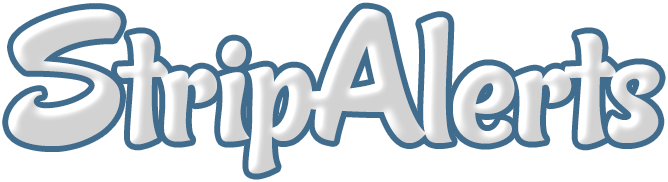
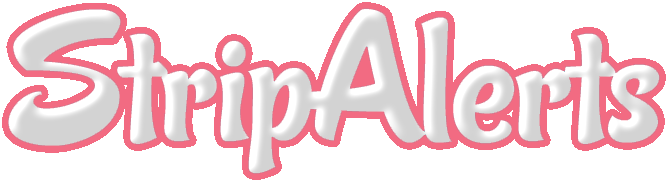
Update styling

Changed region(s): [[0.0, 0.0, 1.0, 0.989]]

diff --git a/src/web_ui.py b/src/web_ui.py
@@ -1,3 +1,4 @@
+import logging
 import os
 import asyncio
 from dotenv import dotenv_values, load_dotenv
@@ -7,12 +8,79 @@ from main import StripAlertsApp
 # Load environment variables from .env file
 load_dotenv()
 
+# Define the light and dark mode styles
+LIGHT_MODE = {
+    "background-color": "#f5f5f5",
+    "color": "#333333",
+    "button-background": "#ff6b81",
+    "button-color": "#ffffff",
+    "card-background": "#ffffff",
+    "card-color": "#333333",
+    "box-shadow": "0px 4px 8px rgba(0, 0, 0, 0.2)",
+}
+
+DARK_MODE = {
+    "background-color": "#333333",
+    "color": "#ffffff",
+    "button-background": "#ff6b81",
+    "button-color": "#ffffff",
+    "card-background": "#444444",
+    "card-color": "#ffffff",
+    "box-shadow": "0px 4px 8px rgba(255, 255, 255, 0.2)",
+}
+
+# Define a variable to track the current mode
+current_mode = LIGHT_MODE
+
 # Common styling constants
-CARD_STYLE = "max-width: 350px; margin: 0 auto; background-color: #202c39; color: white;"
-BODY_STYLE = "background-color: #121212; color: #FFFFFF;"
-BUTTON_STYLE = "margin: 0 auto;"
-LABEL_STYLE = "margin: 0 auto; text-align: center;"
+COMMON_STYLE = """
+    font-family: 'Arial', sans-serif;
+    max-width: 350px;
+    margin: 0 auto;
+    border-radius: 8px;
+    transition: background-color 0.3s ease, transform 0.2s ease;
+"""
+
+# Styles for elements
+BODY_STYLE = f"""
+    {COMMON_STYLE}
+    background-color: {current_mode['background-color']};
+    color: {current_mode['color']};
+"""
+
+CARD_STYLE = f"""
+    {COMMON_STYLE}
+    background-color: {current_mode['card-background']};
+    color: {current_mode['card-color']};
+    box-shadow: {current_mode['box-shadow']};
+"""
+
+BUTTON_STYLE = f"""
+    background-color: {current_mode['button-background']};
+    color: {current_mode['button-color']};
+    border: none;
+    padding: 10px 20px;
+    border-radius: 25px;
+    transition: background-color 0.3s ease, transform 0.2s ease;
+"""
+
+CENTER_STYLE = "display: flex; justify-content: center; align-items: center;"
+LABEL_STYLE = (
+    "margin: 0 auto; text-align: center; margin-top: 20px; font-size: 24px; color: #ff6b81;"
+)
 HEADER_IMAGE_STYLE = "width: 200px; height: auto; margin: 0 auto;"
+HEADER_IMAGE_PATH = "./static/header.png"  # Update with your header image path
+
+
+def show_notification(message, type="info"):
+    """
+    Show a notification to the user.
+
+    Args:
+        message (str): The message to display in the notification.
+        type (str): The type of notification ('info', 'success', 'warning', 'error').
+    """
+    ui.notify(message, type=type)
 
 
 def get_env_var(var_name, default=""):
@@ -43,7 +111,7 @@ def set_env_var(var_name, value):
         for key, val in env_vars.items():
             env_file.write(f"{key}={val}\n")
     os.environ[var_name] = value
-    print(f"Set {var_name} to {value}")
+    # print(f"Set {var_name} to {value}") # Uncomment for debugging
 
 
 class ControlFunctions:
@@ -66,7 +134,7 @@ class ControlFunctions:
             self.app_instance.start_service_logic(self.app_instance, storage)
             await self.app_instance.shutdown_event.wait()
         else:
-            print("App already running.")
+            logging.info("App is already running.")
 
     def stop_service_logic(self, storage):
         """
@@ -77,7 +145,6 @@ class ControlFunctions:
         """
         if self.app_instance:
             asyncio.create_task(self.app_instance.stop_service())
-        storage.update(app_running=False)
 
 
 def create_input(label, var_name, default=""):
@@ -151,8 +218,7 @@ def setup_configuration_stepper(storage):
     with ui.stepper().props("vertical").classes("w-full q-pa-md").style(CARD_STYLE) as stepper:
         storage.update(setup_complete=False)
         storage.update(app_running=False)
-        storage.update(show_stepper=True)
-        stepper.bind_visibility_from(storage, "show_stepper")
+        stepper.bind_visibility_from(storage, "setup_complete", value=False)
 
         with ui.step("API Configuration"):
             create_input("API Username", "USERNAME")
@@ -177,19 +243,14 @@ def setup_configuration_stepper(storage):
                 ui.button("Next", on_click=stepper.next).props("color=primary")
 
         with ui.step("Setup Complete"):
-            username = str(get_env_var("USERNAME"))
-            ui.label().bind_text_from(
-                target_object=username,
-                backward=lambda username: f"Welcome, {username}!",
-            ).style(LABEL_STYLE).classes("font-bold")
-            with ui.stepper_navigation().style(BUTTON_STYLE):
+            with ui.stepper_navigation():
                 ui.button(
                     "Complete Setup",
                     on_click=lambda: [
                         storage.update(setup_complete=True),
-                        storage.update(show_stepper=False),
+                        show_notification("Setup completed successfully!", type="success"),
                     ],
-                ).props("color=primary")
+                ).style(BUTTON_STYLE)
 
 
 def setup_control_card(storage):
@@ -201,14 +262,20 @@ def setup_control_card(storage):
     """
     with ui.card().bind_visibility_from(storage, "setup_complete").classes("w-full q-pa-md").style(
         CARD_STYLE
-    ):
+    ).style(CENTER_STYLE):
         control_functions = ControlFunctions()
+        username = str(get_env_var("USERNAME"))
+        ui.label(f"Welcome, {username}!").style(LABEL_STYLE)
+
+        # Stack the buttons vertically
         ui.button(
-            "Start StripAlerts", on_click=lambda: control_functions.start_service_logic(storage)
-        ).style(BUTTON_STYLE).props("color=primary")
+            "Start StripAlerts",
+            on_click=lambda: control_functions.start_service_logic(storage),
+        ).style(f"{BUTTON_STYLE} margin-bottom: 10px;")  # Added margin-bottom
         ui.button(
-            "Stop StripAlerts", on_click=lambda: control_functions.stop_service_logic(storage)
-        ).style(BUTTON_STYLE).bind_visibility_from(storage, "app_running").props("flat")
+            "Stop StripAlerts",
+            on_click=lambda: control_functions.stop_service_logic(storage),
+        ).style(f"{BUTTON_STYLE} margin-bottom: 10px;").bind_visibility_from(storage, "app_running")
 
 
 def setup_log_display(storage):
@@ -221,7 +288,7 @@ def setup_log_display(storage):
     with ui.card().bind_visibility_from(storage, "setup_complete").classes("w-full q-pa-md").style(
         CARD_STYLE
     ):
-        log_content = ui.label("").classes("log-display q-mb-md font-bold")
+        log_content = ui.label("").classes("log-display q-mb-md font-bold margin-top: 40px;")
 
         def update():
             asyncio.create_task(update_log_content(log_content))
@@ -252,23 +319,55 @@ async def update_log_content(log_label):
         log_label.set_text("Log file not found.")
 
 
+def toggle_dark_mode():
+    global current_mode
+
+    if current_mode == LIGHT_MODE:
+        current_mode = DARK_MODE
+    else:
+        current_mode = LIGHT_MODE
+
+    # Apply the new styles to the UI elements
+    ui.query("body").style(
+        f"background-color: {current_mode['background-color']}; color: {current_mode['color']};"
+    )
+    ui.query(".card").style(
+        f"background-color: {current_mode['card-background']}; color: {current_mode['card-color']}; box-shadow: {current_mode['box-shadow']};"
+    )
+    ui.query(".button").style(
+        f"background-color: {current_mode['button-background']}; color: {current_mode['button-color']};"
+    )
+    ui.query(".notification").style(
+        f"background-color: {current_mode['button-background']}; color: {current_mode['button-color']};"
+    )
+
+
 @ui.page("/")
 def index():
     with ui.card().classes("w-full q-pa-md").style(
-        "max-width: 400px; margin: 0 auto; background-color: #202c39; color: white; min-height: 680px;"
+        "max-width: 400px; margin: 0 auto; background-color: #ffffff; color: #333333; min-height: 680px;"
     ):
         storage = app.storage.user
-        ui.colors(primary="#68b5f0", secondary="#202c39", accent="#f47321")
+        ui.colors(primary="#ff6b81", secondary="#ffffff", accent="#ff4f63")
         ui.query("body").style(BODY_STYLE)
 
         with ui.element().classes("flex flex-column items-center justify-center").style(
             "margin-top: 50px; margin: 0 auto; margin-bottom: 0px;"
         ):
-            ui.image(source="./static/header.png").style(HEADER_IMAGE_STYLE)
+            ui.image(source=HEADER_IMAGE_PATH).style(HEADER_IMAGE_STYLE)
         setup_configuration_stepper(storage)
         setup_control_card(storage)
         setup_log_display(storage)
 
+        with ui.row().classes("w-full q-mb-md"):
+            ui.button("Toggle Dark Mode", on_click=toggle_dark_mode)
+
 
 # Run the NiceGUI app
-ui.run(title="StripAlerts", port=8080, reload=False, storage_secret="stripalerts", dark=True)
+ui.run(
+    title="StripAlerts",
+    port=8080,
+    reload=False,
+    storage_secret="stripalerts",
+    show_welcome_message=False,
+)

diff --git a/src/main.py b/src/main.py
@@ -182,9 +182,10 @@ class StripAlertsApp:
                 await self.led_controller.stop_animation()
         except Exception:
             pass
+        
+        logging.info("StripAlerts stopped.")
 
         await self.get_logs()
-        logging.info("StripAlerts stopped.")
 
     @staticmethod
     async def run_standalone():

diff --git a/src/clear_pixels.py b/src/clear_pixels.py
@@ -7,10 +7,10 @@ num_pixels = 100
 
 
 pixels = neopixel.NeoPixel(
-    pixel_pin, # type: ignore
+    pixel_pin,  # type: ignore
     num_pixels,
     brightness=0.2,
-    auto_write=False,  # type: ignore
+    auto_write=False,
 )
 
 pixels.fill((0, 0, 0))
